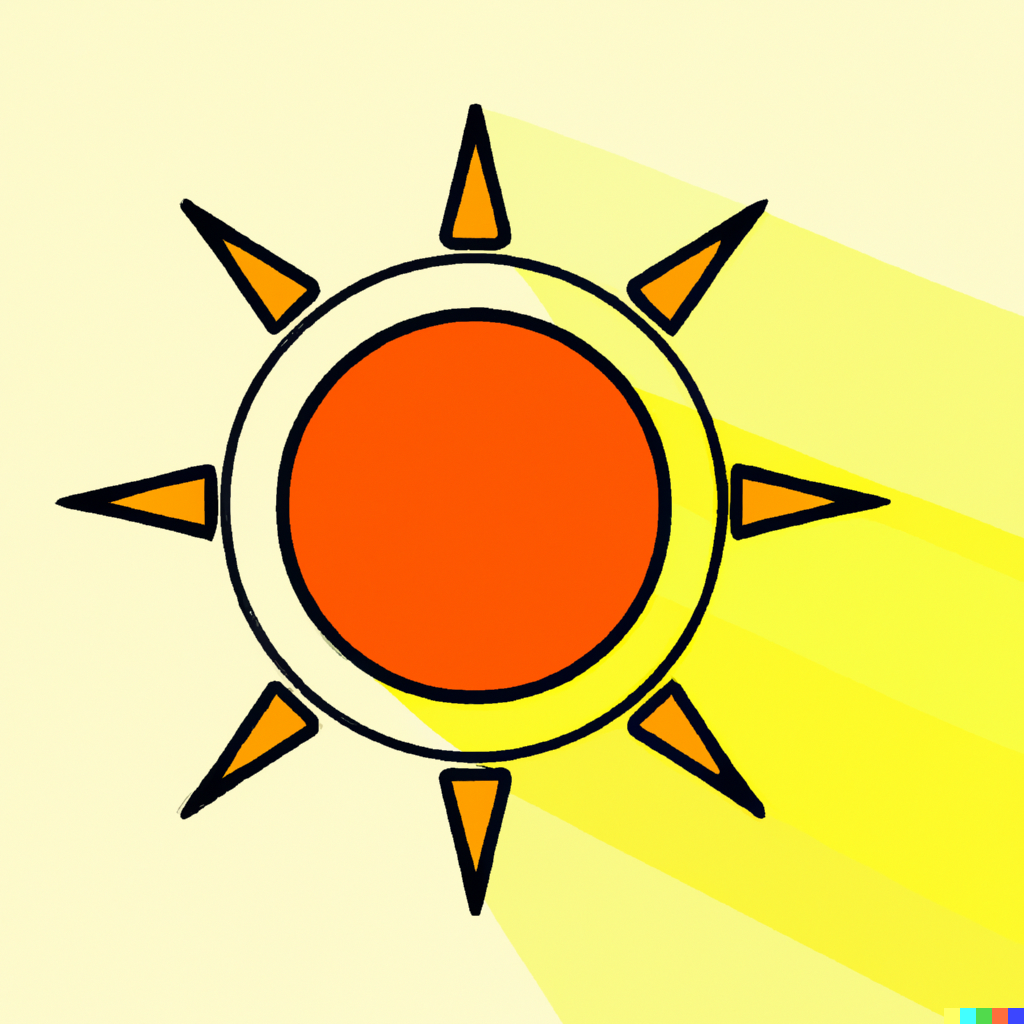
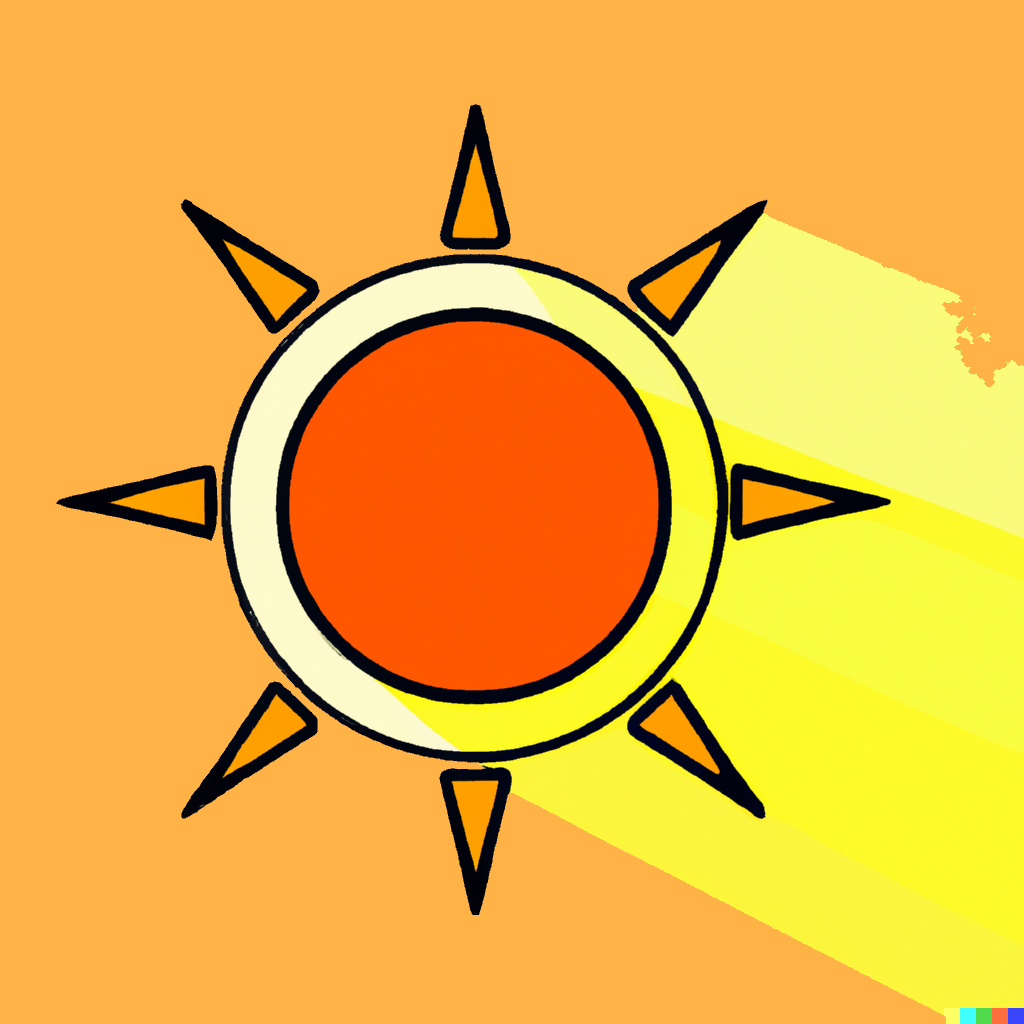
update header, create folder for constants

diff --git a/src/components/header/header.tsx b/src/components/header/header.tsx
@@ -1,4 +1,7 @@
 import { useEffect, useState } from "react";
+import Link from "next/link";
+import { Tooltip } from "../tooltip/tooltip";
+import { headerLinks } from "../../constants/headerLinks";
 import {
   LOGO_LIGHT,
   SUN,
@@ -6,9 +9,8 @@ import {
   SUN_ALT,
   MOON_ALT,
   LOGO_DARK,
-} from "./constants";
+} from "../../constants/icons";
 import headerStyles from "./header.module.scss";
-import Link from "next/link";
 
 export const Header = (): JSX.Element => {
   const [isDarkMode, setIsDarkMode] = useState(false);
@@ -30,20 +32,23 @@ export const Header = (): JSX.Element => {
             className={headerStyles.logo}
             alt="website logo"
           />
-          <Link href="/" className={headerStyles.link}>Home</Link>
-          <Link href="/about" className={headerStyles.link}>
-            About Me
-          </Link>
-          <button
-            onClick={() => setIsDarkMode((prevState) => !prevState)}
-            className={headerStyles.button}
-          >
-            <img
-              src={isDarkMode ? SUN : MOON}
-              className={headerStyles.logo}
-              alt={isDarkMode ? SUN_ALT : MOON_ALT}
-            />
-          </button>
+          {headerLinks.map((link) => (
+            <Link href={link.url} className={headerStyles.link} key={link.title}>
+              {link.title}
+            </Link>
+          ))}
+          <Tooltip text="Page theme toggle">
+            <button
+              onClick={() => setIsDarkMode((prevState) => !prevState)}
+              className={headerStyles.button}
+            >
+              <img
+                src={isDarkMode ? SUN : MOON}
+                className={headerStyles.logo}
+                alt={isDarkMode ? SUN_ALT : MOON_ALT}
+              />
+            </button>
+          </Tooltip>
         </div>
       </div>
     </header>

diff --git a/src/styles/globals.scss b/src/styles/globals.scss
@@ -6,6 +6,7 @@
   --font-mono: ui-monospace, Menlo, Monaco, "Cascadia Mono", "Segoe UI Mono",
     "Roboto Mono", "Oxygen Mono", "Ubuntu Monospace", "Source Code Pro",
     "Fira Mono", "Droid Sans Mono", "Courier New", monospace;
+  --fontCode: "Azeret Mono", monospace;
   --heroImageHeight: 500px;
   --heroImageOverflow: 8rem;
 }
@@ -14,7 +15,7 @@
   --foreground-rgb: 0, 0, 0;
   --background-start-rgb: 253, 223, 161; /* a warm yellow */
   --background-end-rgb: 255, 255, 255;
-  --header-bg: #e5c494; /* a warm beige */
+  --header-bg: #ffdc94;
 
   --primary-glow: conic-gradient(
     from 180deg at 50% 50%,
@@ -25,7 +26,7 @@
     transparent 360deg
   );
   --secondary-glow: radial-gradient(
-    rgba(255, 255, 255, 1),
+    rgba(255, 255, 255, 0.8),
     rgba(255, 255, 255, 0)
   );
 
@@ -47,9 +48,12 @@
   --card-border-rgb: 153, 102, 51; /* a warmer brown */
 
   --box-shadow-color: rgb(0 0 0 / 9%);
-  --link-hover-color: #D48419;
+  --link-hover-color: #8d5710;
 
   --item-filter: none;
+
+  --tooltip-background-color: #ffe3a7;
+  --tooltip-color: #333;
 }
 
 [data-theme="dark"] {
@@ -87,6 +91,8 @@
   --link-hover-color: rgba(255, 255, 255, 0.8);
 
   --item-filter: invert(0.9);
+  --tooltip-background-color: #333;
+  --tooltip-color: #fff;
 }
 
 @media (prefers-color-scheme: dark) {

diff --git a/src/pages/index.tsx b/src/pages/index.tsx
@@ -1,7 +1,6 @@
 import Head from "next/head";
 import { Inter } from "next/font/google";
 import styles from "@component/styles/Home.module.scss";
-import { Header } from "../components/header/header";
 import { Main } from "../components/main/main";
 
 const inter = Inter({ subsets: ["latin"] });
@@ -16,10 +15,10 @@ export default function Home() {
           content="I am a skilled software developer with expertise in React and NodeJS. I offer software development services. Contact me to learn how I can help bring your software development project to life."
         />
         <meta name="viewport" content="width=device-width, initial-scale=1" />
-        <link rel="icon" href="/assets/logo.png" />
+        <link rel="icon" href="/assets/logo-light-bg.png" />
       </Head>
       <main className={styles.main}>
-        <div>
+        <div className={styles.center}>
           <Main />
         </div>
         <div className={styles.grid}>

diff --git a/src/components/tooltip/tooltip.module.scss b/src/components/tooltip/tooltip.module.scss
@@ -1,0 +1,34 @@
+.tooltip_container {
+  position: relative;
+
+  .tooltip {
+    position: absolute;
+    top: 100%;
+    left: 50%;
+    transform: translateX(-50%);
+    padding: 0.5rem;
+    background-color: var(--tooltip-background-color);
+    color: var(--tooltip-color);
+    font-size: 0.8rem;
+    border-radius: 0.25rem;
+    z-index: 1;
+    opacity: 0;
+    transition: opacity 0.2s ease-in-out;
+
+    &:before {
+      content: "";
+      position: absolute;
+      top: -0.5rem;
+      left: 50%;
+      transform: translateX(-50%) rotate(45deg);
+      width: 0.5rem;
+      height: 0.5rem;
+      background-color: var(--tooltip-background-color);
+      z-index: -1;
+    }
+  }
+
+  &:hover .tooltip {
+    opacity: 1;
+  }
+}

diff --git a/src/components/tooltip/tooltip.tsx b/src/components/tooltip/tooltip.tsx
@@ -1,0 +1,29 @@
+import React, { ReactNode, useState } from 'react';
+import tooltipStyles from "./tooltip.module.scss";
+
+interface TooltipProps {
+    children: ReactNode;
+    text: string;
+  }
+
+export const Tooltip = ({ children, text }: TooltipProps) => {
+  const [showTooltip, setShowTooltip] = useState(false);
+
+  const handleMouseEnter = () => {
+    setShowTooltip(true);
+  };
+
+  const handleMouseLeave = () => {
+    setShowTooltip(false);
+  };
+
+  return (
+    <div className={tooltipStyles.tooltip_container}
+      onMouseEnter={handleMouseEnter}
+      onMouseLeave={handleMouseLeave}
+    >
+      {children}
+      {showTooltip && <div className={tooltipStyles.tooltip}>{text}</div>}
+    </div>
+  );
+};

diff --git a/src/constants/icons.ts b/src/constants/icons.ts
@@ -1,6 +1,6 @@
 export const LOGO_LIGHT = 'assets/logo_light_midnight_express.png';
 export const LOGO_DARK = 'assets/logo-dark-warm-bg.png';
-export const SUN = 'assets/sun-exp.png'; // TODO: choose proper icon
+export const SUN = 'assets/sun-exp-bg.png'; // TODO: choose proper icon
 export const MOON = 'assets/moon_midnight_express.png';
 
 export const SUN_ALT = 'light mode button'

diff --git a/src/components/main/main.tsx b/src/components/main/main.tsx
@@ -1,5 +1,5 @@
 import Image from "next/image";
-import { socialLinks } from "./socialLinks";
+import { socialLinks } from "../../constants/socialLinks";
 import mainStyles from "./main.module.scss";
 
 export const Main = (): JSX.Element => {

diff --git a/src/components/main/main.module.scss b/src/components/main/main.module.scss
@@ -24,6 +24,7 @@
 }
 
 .text_thin {
+  font-family: var(--fontCode);
   font-size: clamp(1.1rem, 3vw, 1.9rem);
   margin: 0.5rem 0 0;
   font-weight: 200;

diff --git a/src/constants/headerLinks.ts b/src/constants/headerLinks.ts
@@ -1,0 +1,10 @@
+export const headerLinks = [
+  {
+    title: "Home",
+    url: "/",
+  },
+  {
+    title: "About Me",
+    url: "/about",
+  }
+];
